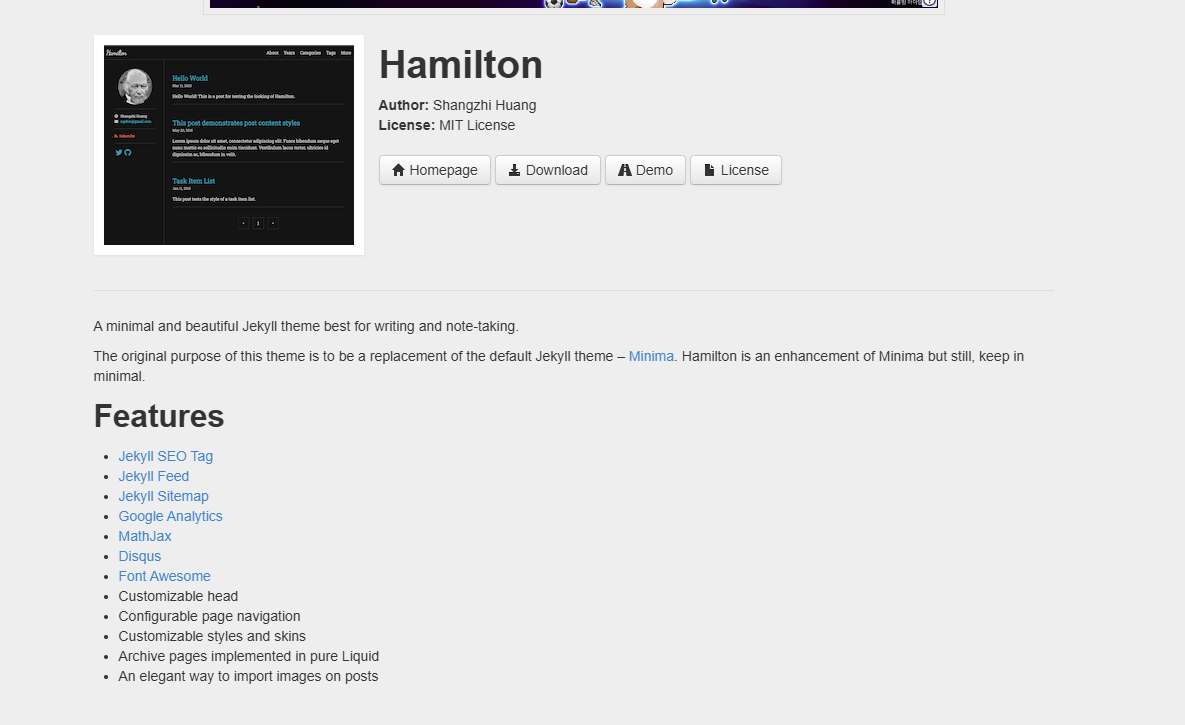
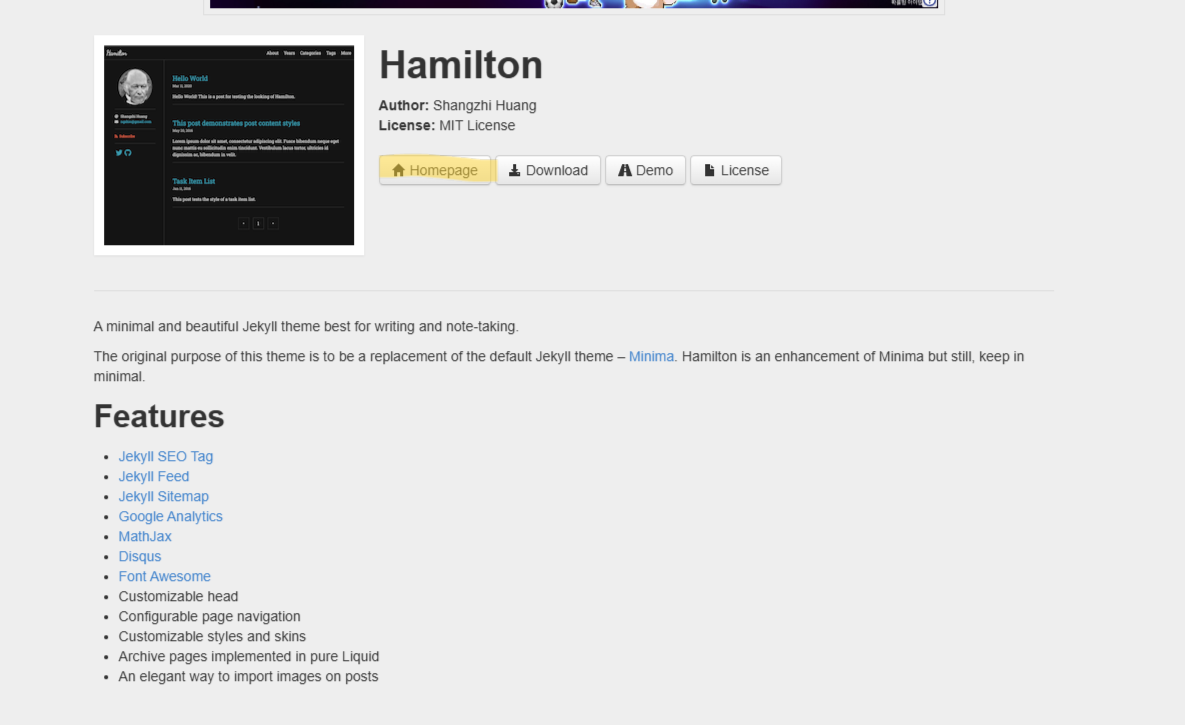
post 수정

diff --git a/_posts/2026-05-14-github-blog-with-codex.md b/_posts/2026-05-14-github-blog-with-codex.md
@@ -5,7 +5,7 @@ categories: [Blog]
 tags: [jekyll, github-pages]
 ---
 
-티스토리에서 블로그를 작성하며 개발을 하던 나는 종종 구글링을 하여 정보를 찾곤하였는데
+티스토리에서 블로그를 작성하며 개발을 하던 나는 종종 구글링을 하여 정보를 찾곤하였는데  
 그 중 도움을 자주 주던 github.io 깃허브 블로그를 보며 공부하곤 했다.
 
 잘쓰던(?) 티스토리를 버리고 github.io를 사용하기로 한 것은 크게 2가지 이유가 있는데 
@@ -13,26 +13,59 @@ tags: [jekyll, github-pages]
 1. 뭔가 개발자 같아서 멋짐
 2. 구시대적인 UI를 가져서 촌스러운 티스토리에 비해 힙해보임
 
-사실 멋있어 보여서 그냥 하고 싶었다 라고 밖에 설명이 안되지만
+사실 멋있어 보여서 그냥 하고 싶었다 라고 밖에 설명이 안되지만  
 나와 같은 이유로 시작하는 사람이 있을거라 생각해 블로그를 생성했던 과정을 회고하며 포스팅을 해보려한다.
 
-## 코덱스 설치
-우선 제목에서 부터 알 수 있듯이 이것은 Codex를 사용하며 진행하게 된다.
-하지만 근본적으론 크게 다르지 않으니 일단 따라오길 권장한다.
+우선 제목에서 부터 알 수 있듯이 이것은 Codex를 사용하며 진행하게 된다.  
+사용하고자 하는 사람은 Codex를 다운로드하며 진행하면 좋을 것 같다.  
 
+## 테마 선택 
 [jekyllthemes](http://jekyllthemes.org/)
 
 위 사이트에서 원하는 테마를 고른다음 
 
-![이미지](/assets/img/posts/2026-05-14-github-blog-with-codex/jekyllthemes.png)
+![jekyllthemes](/assets/img/posts/2026-05-14-github-blog-with-codex/jekyllthemes.png)
+Homepage를 클릭하면 깃 사이트가 보일텐데  
 
-This is a test post for checking whether the blog renders and deploys correctly.
+![jekyll_them_Git](/assets/img/posts/2026-05-14-github-blog-with-codex/jekyll_them_Git.png)
+![Fork](/assets/img/posts/2026-05-14-github-blog-with-codex/Fork.png)
 
-## What This Checks
+포크를 진행하며 레파지토리 이름을 UserName.github.io   
+// 여기서 UserName은 본인의 깃허브 프로필 닉네임을 적어야 한다.
 
-- The post appears on the home page.
-- The post detail page is generated by Jekyll.
-- Categories and tags are generated.
-- GitHub Pages serves built HTML instead of raw front matter.
+## Codex로 파일 정리하기기
+성공적으로 포크에 성공했다면 이제 로컬에 clone을 받은 다음  
+![CodexStart](/assets/img/posts/2026-05-14-github-blog-with-codex/CodexStart.png)
+Codex와 깃허브의 연동, clone받은 프로젝트를 Codex의 새 프로젝트에 추가  
 
-If this page is visible on the live site, the basic publishing flow is working.
+이후 Codex에 아래와 같은 프롬포트로 실질적으로 필요한 내용만 남기고  
+삭제 과정중 역참조가 깨지는 상황을 방지하고자자 한다
+~~~
+프로젝트를 분석 후 블로그로써 사용할수 있도록 만들려고 해  
+우선 필요없는 파일을 쳐내고 경량화 작업을 하고싶어  
+필요없는 파일을 솎아내고 이유를 설명해줘
+~~~
+
+자 이제 블로그의 완성을 기대하며 들어가보면 
+
+![1stProblem](/assets/img/posts/2026-05-14-github-blog-with-codex/1stProblem.png)
+
+전혀 완성이 되어있지 않았다 
+
+이 상황을 Codex에게 전달하여 문제를 파악, 해결결
+- 파악한 문제
+    + Jekyll의 결과물이 배포되는 것이 아닌 index.html을 그대로 배포되는 하는 현상
+
+- 문제 해결 방안
+    + ".github/workflows/pages-deploy.yml" 생성
+    + Actions에서 사용자가 push할때 자동 배포가 되도록 유도
+
+
+연계된 문제
+~~~
+! [remote rejected] master -> master 
+(refusing to allow an OAuth App to create or update workflow .github/workflows/pages-deploy.yml without workflow scope)
+error: failed to push some refs to 'https://github.com/sidsru/sidsru.github.io.git'
+~~~
+
+깃 토큰 권한의 문제로 